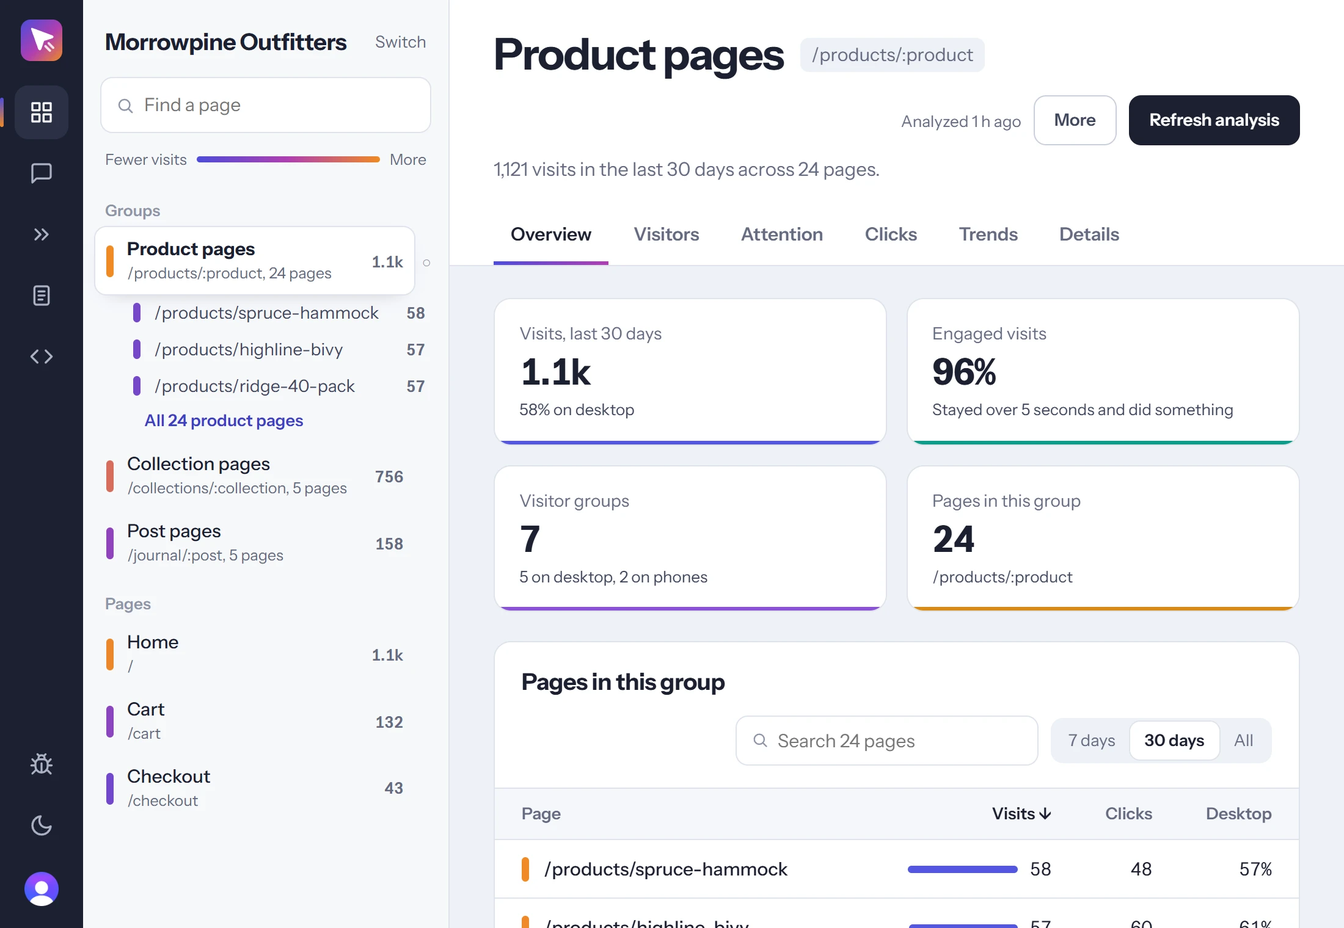
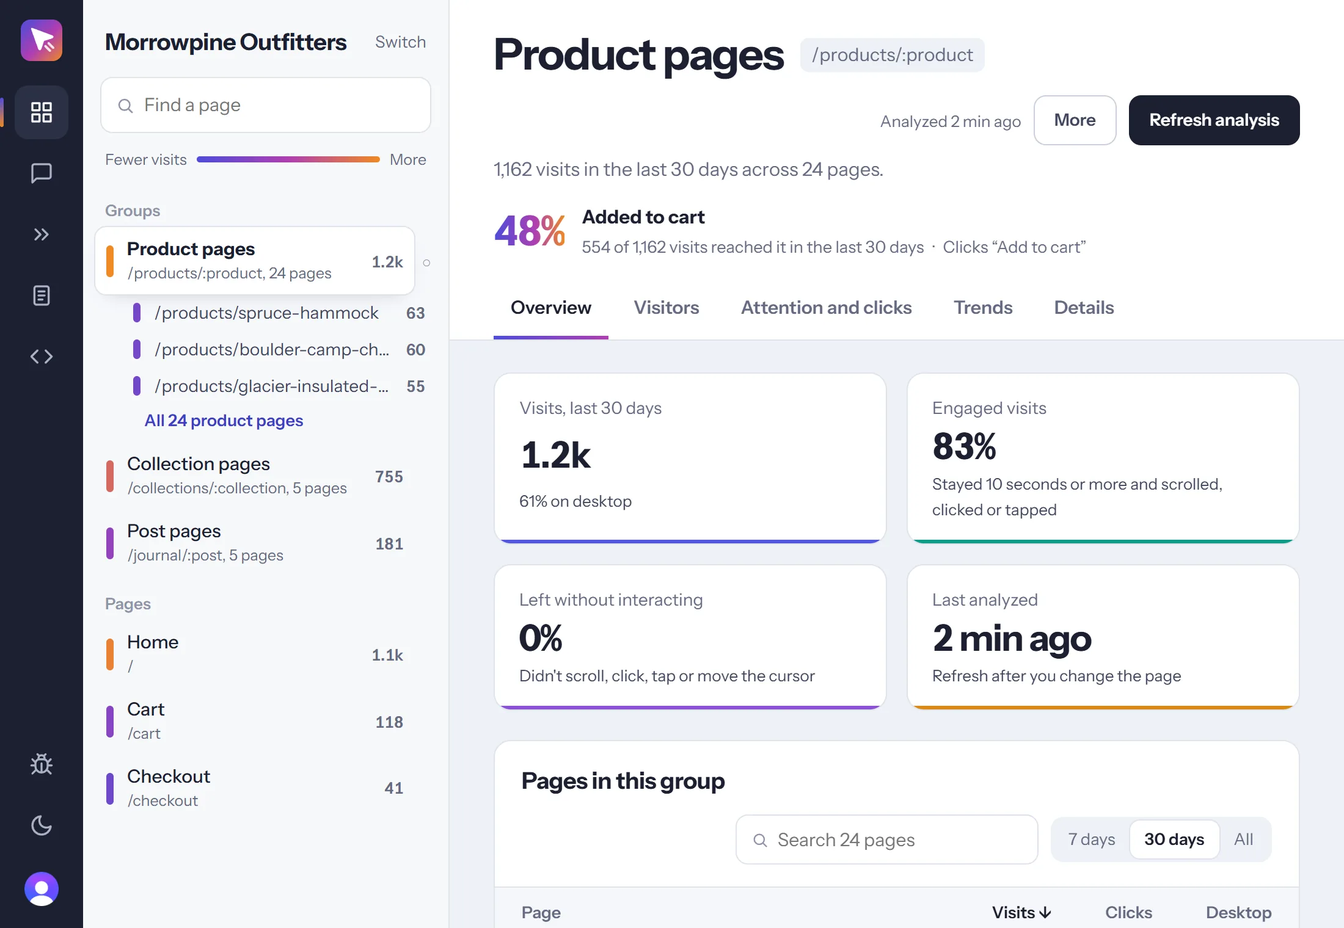
Ignore bots and refresh the homepage for the new dashboard
- Automated browsers and bot user agents are no longer recorded as visits
- Homepage pictures and copy now show the new dashboard
- The collects page explains how pages are pictured
- Retaken page pictures are no longer served stale
- Close lines on page pictures no longer overlap their labels
- Demo data now matches what the tracker sends

diff --git a/server/public/tracetray.html b/server/public/tracetray.html
@@ -131,7 +131,7 @@ section { padding: 104px 0; }
 .frame { border-radius: 16px; overflow: hidden; border: 1px solid var(--line); background: var(--paper); box-shadow: 0 30px 60px -36px rgba(28, 32, 48, 0.5); }
 .pair { position: relative; padding-bottom: 90px; }
 .pair .frame:first-child { width: 72%; }
-.pair .frame:last-child { position: absolute; right: 0; bottom: 0; width: 74%; }
+.pair .frame:last-child { position: absolute; right: 0; bottom: 0; width: 34%; }
 .card-shot { max-width: 340px; justify-self: center; }
 .row.tall { grid-template-columns: minmax(0, 500px) auto; justify-content: center; gap: 96px; }
 .row.flip.tall { grid-template-columns: auto minmax(0, 500px); }
@@ -252,7 +252,7 @@ footer span { margin-left: auto; }
         </div>
         <p class="setup-note">Two lines to install. No proxy or tag manager. Start collecting in minutes.</p>
       </div>
-      <div class="screen"><img src="/assets/home/dash-group.webp" width="2880" height="1800" alt="The TraceTray dashboard showing an outdoor gear shop's product pages, their visits and the visitor groups who use them"></div>
+      <div class="screen"><img src="/assets/home/dash-group.webp" width="2880" height="1800" alt="The TraceTray dashboard showing an outdoor gear shop's product pages, how many reach Added to cart, and the visitor groups who use them"></div>
     </div>
     <div class="wrap">
       <div class="hud" aria-live="off">
@@ -329,21 +329,21 @@ footer span { margin-left: auto; }
           <p class="lead-line">See the few kinds of visitor each page gets, such as people who decide fast, people who compare and people who skim, and how many of each.</p>
           <p>Every visit becomes a profile of 13 behavioural measures on desktop and 8 on phones: cursor speed, pause rate, scroll depth, hesitation before clicks, how widely attention ranges and more. Machine learning clusters similar profiles into groups.</p>
           <ul class="method">
-            <li>The number of groups is chosen by how cleanly the data separates, not fixed in advance.</li>
-            <li>Results are cross-checked against a second clustering method.</li>
-            <li>Statistical tests confirm which differences between groups are real.</li>
+            <li>The number of groups is chosen by how cleanly the data separates, up to five.</li>
+            <li>Every split is checked against data with no groups in it and on random samples. If none holds up, TraceTray says visitors behave alike.</li>
+            <li>Only differences large enough to matter are highlighted.</li>
           </ul>
         </div>
-        <div class="frame who-crop"><img src="/assets/home/who.webp" width="766" height="1396" alt="Who visits: Quick deciders 44%, Re-checkers 38% and Content skimmers 18%, each with a description"></div>
+        <div class="frame who-crop"><img src="/assets/home/who.webp" width="766" height="1036" alt="Who visits: Quick deciders 67% and Re-checkers 33%, each with how often they reach Shop hiking packs against the average"></div>
       </div>
 
       <div class="row flip tall">
         <div class="row-copy">
           <h2>What to change, and why</h2>
-          <p>Every visitor group comes with a clear next step, like &ldquo;keep the path short for people who already know what they want.&rdquo; Each one is based on how that group actually behaves and what the page is for, so you know which fix will do the most for conversions.</p>
-          <p>Every page also gets a summary of what stands out, and groups keep the same names between analyses, so changes are easy to track.</p>
+          <p>When a group falls short of the page's goal, TraceTray shows why from the numbers: what they click instead, where they leave the page, or how long they hesitate. No suggestion appears without the figures behind it.</p>
+          <p>Groups keep the same names between analyses, so changes are easy to track.</p>
         </div>
-        <div class="frame card-shot"><img src="/assets/home/type-card.webp" width="640" height="1058" alt="The Quick deciders group: 44% of visits, compared with the page average, and what to try"></div>
+        <div class="frame card-shot"><img src="/assets/home/type-card.webp" width="640" height="1212" alt="The Re-checkers group: none reach Added to cart, how they differ from the page average, and a suggestion to look at Reviews"></div>
       </div>
 
       <div class="row">
@@ -351,7 +351,7 @@ footer span { margin-left: auto; }
           <h2>Detailed visitor journeys</h2>
           <p>Follow visitors across your whole site: where they arrive, the paths they take, and where they leave. Spot the step where a checkout or sign-up loses people.</p>
         </div>
-        <div class="frame"><img src="/assets/home/journeys.webp" width="1750" height="1705" alt="Journeys: where visitors arrive and leave, and the most common moves between pages"></div>
+        <div class="frame"><img src="/assets/home/journeys.webp" width="2000" height="2200" alt="Journeys: where visitors arrive and leave, and the most common moves between pages"></div>
       </div>
 
       <div class="row flip">
@@ -370,11 +370,11 @@ footer span { margin-left: auto; }
       <div class="row">
         <div class="row-copy">
           <h2>Where attention goes on your page</h2>
-          <p>Find out where people get hung up, on a page and across your whole site: whether they reach your pricing, sign-up form or buy button, where they hesitate, and where engagement drops off.</p>
+          <p>See it on the page itself: where cursors spend time, where the first screen ends, how far down people get, and whether they reach your pricing, sign-up form or buy button. On phones, see where people stop to read.</p>
         </div>
         <div class="pair">
-          <div class="frame"><img src="/assets/home/attention.webp" width="1186" height="886" alt="Cursor activity from the top of the page to the bottom, with the middle third busiest"></div>
-          <div class="frame"><img src="/assets/home/attention-phone.webp" width="2000" height="558" alt="On phones: visitors get 57% of the way down and tap about 4.6 times a minute"></div>
+          <div class="frame"><img src="/assets/home/attention.webp" width="2000" height="1200" alt="A picture of the shop's homepage shaded where the cursor spends time, with lines where the first screen ends and how far visitors get"></div>
+          <div class="frame"><img src="/assets/home/attention-phone.webp" width="1180" height="1100" alt="On phones: the homepage shaded where visitors stop to read, with where the first screen ends"></div>
         </div>
       </div>
 
@@ -383,7 +383,7 @@ footer span { margin-left: auto; }
           <h2>Mobile, measured on its own terms</h2>
           <p>Phones have no cursor, so TraceTray reads taps, scrolling and reading pauses, and analyzes mobile visits separately.</p>
         </div>
-        <div class="frame"><img src="/assets/home/devices.webp" width="2000" height="582" alt="Desktop and phones: 61% desktop, 39% phones, with the phone visitor groups listed"></div>
+        <div class="frame"><img src="/assets/home/devices.webp" width="2000" height="344" alt="Desktop and phones: 61% desktop, 39% phones, and how far down each gets"></div>
       </div>
 
       <div class="row">
@@ -401,7 +401,7 @@ footer span { margin-left: auto; }
       <div class="section-head"><h2>Private by design</h2></div>
       <div class="extras-grid three">
         <div><h3>No cookies or device storage</h3><p>Visits are grouped with an ID that changes daily, and the IP address is never stored.</p></div>
-        <div><h3>Never sees what's on the page</h3><p>No screenshots, page content, keystrokes or form input.</p></div>
+        <div><h3>Never records what visitors see</h3><p>No screen recordings, page content, keystrokes or form input from visits. Pictures of your pages come from TraceTray opening the public page itself.</p></div>
         <div><h3>Your data stays yours</h3><p>Not sold, not shared and not used for ads.</p></div>
       </div>
       <p class="privacy-link"><a href="/collects">See exactly what TraceTray collects</a></p>
@@ -629,7 +629,7 @@ async function startTraceTrayTracker() {
   }
   window.TraceTray = { endpoint: `${window.location.origin}/collect`, key: siteKey };
   const script = document.createElement("script");
-  script.src = "/client/tracker.js?v=20261015-8";
+  script.src = "/client/tracker.js?v=20261016-1";
   script.async = true;
   document.head.appendChild(script);
 }

diff --git a/server/scripts/seed-demo.js b/server/scripts/seed-demo.js
@@ -50,54 +50,76 @@ function journey() {
     return path.slice(0, 1 + Math.floor(rand() * path.length));
 }
 
+const target = text => ({ tag: rand() < 0.6 ? "BUTTON" : "A", id: null, text, href: null });
+
+function scrollEvents(start, durationMs, depth, pageHeight, viewport, steps, backtrack, stepPx) {
+    const events = [{ type: "page_load", scroll_depth: viewport / pageHeight, page_height: pageHeight, viewport_height: viewport, measured: true, timestamp: start }];
+    let y = 0;
+    for (let i = 0; i < steps; i++) {
+        const goal = Math.max(0, Math.min(pageHeight - viewport, depth * ((i + 1) / steps) * pageHeight - viewport));
+        const to = backtrack && rand() < 0.3 ? Math.max(0, y - stepPx) : goal;
+        events.push({ type: "scroll", from: y, to, delta: to - y, scroll_depth: Math.min(1, (to + viewport) / pageHeight), page_height: pageHeight, viewport_height: viewport,
+            timestamp: Math.round(start + ((i + 1) / (steps + 1)) * durationMs) });
+        y = to;
+    }
+    return events;
+}
+
+const scrollAt = (scrolls, t) => scrolls.reduce((y, e) => (e.type === "scroll" && e.timestamp <= t ? e.to : y), 0);
+
 function desktopEvents(start, persona, path) {
     const p = DESKTOP[persona];
     const durationMs = between(...p.duration) * 1000;
     const pageHeight = path.startsWith("/products") ? 3600 : 2600;
+    const viewport = 820;
     const depth = between(...p.depth);
-    const events = [{ type: "page_load", scroll_depth: 0, timestamp: start }];
+    const events = scrollEvents(start, durationMs, Math.max(depth, viewport / pageHeight), pageHeight, viewport, Math.max(1, Math.round(depth * 12)), p.backtrack, 280);
+    const scrolls = [...events];
     const moves = Math.round(durationMs / 400);
-    let x = between(300, 1100), y = 300;
+    let x = between(300, 1100);
     for (let i = 0; i < moves; i++) {
-        const t = start + (i / moves) * durationMs;
-        const reach = Math.min(1, (i / moves) * 1.4) * depth;
+        const t = Math.round(start + (i / moves) * durationMs);
+        const top = scrollAt(scrolls, t);
         x = Math.max(40, Math.min(1400, x + between(-220, 220) * p.speed[1]));
-        y = Math.max(40, (rand() ** p.yBias) * reach * pageHeight + between(0, 700));
-        events.push({ type: "mousemove", x: Math.round(x), y: Math.round(y), delta_t: Math.round(400 / between(...p.speed)), timestamp: Math.round(t) });
+        const y = Math.round((rand() ** p.yBias) * (viewport - 40) + 20);
+        events.push({ type: "mousemove", x: Math.round(x), y, py: top + y, delta_t: Math.round(400 / between(...p.speed)), timestamp: t });
     }
     const pauseCount = Math.round(between(...p.pauses));
     for (let i = 0; i < pauseCount; i++) events.push({ type: "cursor_pause", duration: Math.round(between(600, 3000)), timestamp: Math.round(start + rand() * durationMs) });
-    const scrolls = Math.max(1, Math.round(depth * 12));
-    for (let i = 0; i < scrolls; i++) {
-        const back = p.backtrack && rand() < 0.3;
-        events.push({ type: "scroll", delta: back ? -280 : 320, scroll_depth: Math.min(1, depth * ((i + 1) / scrolls)), timestamp: Math.round(start + ((i + 1) / (scrolls + 1)) * durationMs) });
-    }
     const clickTargets = path.startsWith("/products") ? p.clicks
         : path.startsWith("/collections") ? ["Ridge 40L Pack", "Summit 25 Daypack", "Filter: Waterproof"]
         : path === "/cart" ? ["Checkout", "Remove"] : path === "/checkout" ? ["Pay now"] : ["Shop hiking packs", "New arrivals"];
     const clickCount = persona === "scanner" ? (rand() < 0.2 ? 1 : 0) : 1 + Math.floor(rand() * (persona === "comparer" ? 4 : 2));
     for (let i = 0; i < clickCount && clickTargets.length; i++) {
         const t = Math.round(start + between(0.3, 0.95) * durationMs);
+        const text = i === 0 && persona === "buyer" && path.startsWith("/products") ? "Add to cart" : pick(clickTargets);
+        const y = Math.round(between(120, viewport - 120));
         events.push({ type: "cursor_pause", duration: Math.round(between(...p.dwell)), timestamp: t - Math.round(between(...p.dwell)) });
-        events.push({ type: "click", tag: rand() < 0.6 ? "button" : "a", text: i === 0 && persona === "buyer" && path.startsWith("/products") ? "Add to cart" : pick(clickTargets), timestamp: t });
+        events.push({ type: "click", tag: "BUTTON", text, target: target(text), x: Math.round(between(200, 1100)), y, py: scrollAt(scrolls, t) + y, timestamp: t });
     }
     return { events: events.sort((a, b) => a.timestamp - b.timestamp), durationMs };
 }
 
-function phoneEvents(start, persona) {
+function phoneEvents(start, persona, path) {
     const p = PHONE[persona];
     const durationMs = between(...p.duration) * 1000;
+    const pageHeight = path.startsWith("/products") ? 5600 : 4400;
+    const viewport = 760;
     const depth = between(...p.depth);
-    const events = [{ type: "page_load", scroll_depth: 0, timestamp: start }];
-    const scrolls = Math.max(1, Math.round(depth * 14));
-    for (let i = 0; i < scrolls; i++) events.push({ type: "scroll", delta: rand() < 0.1 ? -300 : 420, scroll_depth: Math.min(1, depth * ((i + 1) / scrolls)), timestamp: Math.round(start + ((i + 1) / (scrolls + 1)) * durationMs) });
+    const events = scrollEvents(start, durationMs, Math.max(depth, viewport / pageHeight), pageHeight, viewport, Math.max(1, Math.round(depth * 14)), rand() < 0.3, 300);
+    const scrolls = [...events];
     const taps = Math.round(between(...p.taps));
     const pauses = Math.round(between(...p.pauses));
     for (let i = 0; i < pauses; i++) {
         const t = Math.round(start + rand() * durationMs);
-        events.push({ type: "attention_pause", duration: Math.round(between(...p.pauseMs)), ended_by: i < taps ? "tap" : "scroll", timestamp: t });
+        events.push({ type: "attention_pause", duration: Math.round(between(...p.pauseMs)), ended_by: i < taps ? "tap" : "scroll",
+            viewport_midpoint: scrollAt(scrolls, t) + viewport / 2, page_height: pageHeight, viewport_height: viewport, timestamp: t });
     }
-    for (let i = 0; i < taps; i++) events.push({ type: "tap", x: Math.round(between(20, 370)), y: Math.round(between(100, 800)), timestamp: Math.round(start + rand() * durationMs) });
+    const tapTargets = path.startsWith("/products") ? ["Add to cart", "Size guide", "Reviews"] : ["Shop hiking packs", "New arrivals", "Menu"];
+    for (let i = 0; i < taps; i++) {
+        const text = pick(tapTargets);
+        events.push({ type: "tap", x: Math.round(between(20, 370)), y: Math.round(between(100, 700)), text, target: target(text), timestamp: Math.round(start + rand() * durationMs) });
+    }
     return { events: events.sort((a, b) => a.timestamp - b.timestamp), durationMs };
 }
 
@@ -128,7 +150,7 @@ function isLocal(uri) {
         const source = weighted(SOURCES);
         const path = journey();
         path.forEach((page, step) => {
-            const { events, durationMs } = mobile ? phoneEvents(start, persona) : desktopEvents(start, persona, page);
+            const { events, durationMs } = mobile ? phoneEvents(start, persona, page) : desktopEvents(start, persona, page);
             const count = type => events.filter(e => e.type === type).length;
             docs.push({
                 site_key: site.key, session_id: `demo-${v}-${step}`, visitor_id: `demo-visitor-${v}`,

diff --git a/server/public/collects.html b/server/public/collects.html
@@ -66,12 +66,17 @@
       <h2>What it never collects</h2>
       <ul>
         <li>Anything typed: no keystrokes, and nothing entered into forms.</li>
-        <li>What's on the page: no screenshots, video, recordings or copies of page content.</li>
+        <li>What's on the visitor's screen: no screenshots, video, recordings or copies of page content.</li>
         <li>Query strings, so search terms, email addresses or tokens in a page's address aren't sent.</li>
         <li>IP addresses: the server uses one only for a moment (see below) and never writes it down, including in its access logs.</li>
         <li>Cookies, or anything else stored on the visitor's device.</li>
         <li>Names, email addresses, account details or anything that identifies a visitor from one day to the next.</li>
       </ul>
+    </section>
+
+    <section class="legal-section">
+      <h2>Pictures of your pages</h2>
+      <p>To show attention on the page itself, TraceTray's server opens your public pages, the way a search engine would: signed out, with no cookies and without the tracker, at desktop and phone width. It never pictures what a visitor sees. Pages behind a login, or on addresses that aren't public, aren't pictured.</p>
     </section>
 
     <section class="legal-section">
@@ -87,6 +92,7 @@
         <li>On busy pages, full movement data is kept for a random sample of visits. Every visit still keeps its summary, how far down the page it got, and its clicks and taps.</li>
         <li>Each visit's summary (page, duration, device and counts) is kept for 13 months.</li>
         <li>Daily page totals and your analysis results are kept for as long as your account exists. How much history the dashboard shows depends on your plan.</li>
+        <li>Pictures of your pages are replaced at most weekly, and deleted after 60 days if nobody opens them.</li>
         <li>After a subscription ends, your website data is kept for 30 days, with a notice 7 days before it's deleted.</li>
         <li>Encrypted database backups are kept for 30 days.</li>
         <li>Data is processed in the United States, on TraceTray's server and with the providers listed in the <a href="/privacy">privacy policy</a>. It isn't sold, shared or used for ads.</li>

diff --git a/server/tests/tracking.test.js b/server/tests/tracking.test.js
@@ -1,6 +1,6 @@
 const assert = require("node:assert/strict");
 const { test } = require("node:test");
-const { visitTime, cleanSummary, cleanReferrer } = require("../src/lib/tracking");
+const { visitTime, cleanSummary, cleanReferrer, isBot } = require("../src/lib/tracking");
 const { groupPage } = require("../src/lib/pageGroups");
 
 test("what a browser sends is checked before it's stored", () => {
@@ -33,4 +33,17 @@ test("page pictures only go to public addresses", async () => {
     for (const ip of ["8.8.8.8", "172.32.0.1", "2606:4700::1111"]) assert.equal(privateAddress(ip), false, ip);
     assert.equal(await publicUrl("file:///etc/passwd"), false);
     assert.equal(await publicUrl("http://localhost:5000/"), false);
+});
+
+test("bots and headless browsers are told apart from real visitors", () => {
+    for (const agent of [
+        "Mozilla/5.0 (compatible; Googlebot/2.1; +http://www.google.com/bot.html)",
+        "Mozilla/5.0 AppleWebKit/537.36 (KHTML, like Gecko; compatible; bingbot/2.0)",
+        "Mozilla/5.0 (X11; Linux x86_64) AppleWebKit/537.36 (KHTML, like Gecko) HeadlessChrome/131.0.0.0 Safari/537.36",
+        "facebookexternalhit/1.1", "curl/8.4.0", ""
+    ]) assert.equal(isBot(agent), true, agent);
+    for (const agent of [
+        "Mozilla/5.0 (Linux; Android 13; CUBOT X30) AppleWebKit/537.36 (KHTML, like Gecko) Chrome/131.0.0.0 Mobile Safari/537.36",
+        "Mozilla/5.0 (Windows NT 10.0; Win64; x64) AppleWebKit/537.36 (KHTML, like Gecko) Chrome/131.0.0.0 Safari/537.36"
+    ]) assert.equal(isBot(agent), false, agent);
 });

diff --git a/web/src/components/PagePicture.tsx b/web/src/components/PagePicture.tsx
@@ -10,7 +10,7 @@ export function usePageShot(page: string, device: "desktop" | "mobile", info: Pa
   useEffect(() => {
     if (!info) { setUrl(null); return; }
     let objectUrl: string | null = null, cancelled = false;
-    api.pageShot(siteKey, page, device).then(({ blob }) => {
+    api.pageShot(siteKey, page, device, String(info.taken_at)).then(({ blob }) => {
       if (cancelled) return;
       objectUrl = URL.createObjectURL(blob);
       setUrl(objectUrl);
@@ -48,9 +48,10 @@ export default function PagePicture({ src, info, bands, color, reach, goal, labe
         <div className="page-picture-heat" style={{ height: percent(scale, 2) }}>
           {bands.map((weight, i) => <i key={i} style={{ opacity: (weight * 0.55).toFixed(3), background: color }} />)}
         </div>
-        {lines.map(line => {
+        {lines.map((line, i) => {
           const pos = at(line.depth);
-          return pos && <div key={line.key} className={`page-line ${line.kind}`} style={pos}><span>{line.text}</span></div>;
+          const crowded = lines.some((other, j) => j < i && Math.abs(other.depth - line.depth) * scale < 0.05);
+          return pos && <div key={line.key} className={`page-line ${line.kind}${crowded ? " left" : ""}`} style={pos}><span>{line.text}</span></div>;
         })}
         {goal && at(goal.depth) && <div className="page-line goal" style={at(goal.depth)!}><span>{goal.name}</span></div>}
       </div>

diff --git a/packages/shared/src/client.ts b/packages/shared/src/client.ts
@@ -86,7 +86,7 @@ export function createApi({ baseUrl = "", getToken }: ApiOptions) {
     recentSessions: (siteKey: string, limit = 50) => request<RecentSession[]>("GET", "/api/sessions/recent", { siteKey, query: { limit } }),
     journey: (siteKey: string) => request<Journey>("GET", "/api/journey", { siteKey }),
     attention: (siteKey: string, page?: string | null) => request<AttentionProfile>("GET", "/api/attention-profile", { siteKey, query: { page } }),
-    pageShot: (siteKey: string, page: string, device: "desktop" | "mobile") => request<{ blob: Blob }>("GET", "/api/page-shot", { siteKey, query: { page, device }, raw: true }),
+    pageShot: (siteKey: string, page: string, device: "desktop" | "mobile", takenAt: string) => request<{ blob: Blob }>("GET", "/api/page-shot", { siteKey, query: { page, device, v: takenAt }, raw: true }),
 
     pageGroups: (siteKey: string) => request<PageGroups>("GET", "/api/page-groups", { siteKey }),
     savePageGroups: (siteKey: string, rules: string[]) => request<{ rules: string[]; regrouping: boolean }>("PUT", "/api/page-groups", { siteKey, body: { rules } }),

diff --git a/server/src/routes/collect.js b/server/src/routes/collect.js
@@ -2,7 +2,7 @@ const express = require("express");
 const router = express.Router();
 const { Account, Session } = require("../db/models");
 const { ensureAccountSites } = require("../lib/siteAccount");
-const { normalizeTrackingDomain, visitTime, cleanSummary, cleanReferrer } = require("../lib/tracking");
+const { normalizeTrackingDomain, visitTime, cleanSummary, cleanReferrer, isBot } = require("../lib/tracking");
 const logger = require("../lib/logger");
 const { groupPage } = require("../lib/pageGroups");
 const { countSession } = require("../lib/pageDays");
@@ -54,6 +54,7 @@ async function accountFor(siteKey) {
 router.post("/collect", async (req, res) => {
     try {
         if (overRateLimit(req.ip)) return res.sendStatus(429);
+        if (isBot(req.get("user-agent"))) return res.sendStatus(204);
 
         const data = req.body || {};
         const siteKey = String(data.key || "").trim().slice(0, 64);

diff --git a/web/src/styles.css b/web/src/styles.css
@@ -288,6 +288,7 @@ p.tab-intro { max-width: 80ch; }
 .page-picture-heat i { flex: 1; }
 .page-line { position: absolute; left: 0; right: 0; height: 0; border-top: 2px dashed color-mix(in srgb, var(--ink) 55%, transparent); }
 .page-line span { position: absolute; right: 6px; top: 3px; font-size: 11.5px; font-weight: 600; line-height: 1.4; padding: 1px 7px; border-radius: 999px; background: var(--panel); color: var(--ink); box-shadow: 0 0 0 1px var(--line); white-space: nowrap; }
+.page-line.left span { right: auto; left: 6px; }
 .page-line.fold { border-top-color: var(--d3); }
 .page-line.fold span { color: var(--d3); }
 .page-line.goal { border-top: 2px solid var(--good); }

diff --git a/server/src/lib/tracking.js b/server/src/lib/tracking.js
@@ -81,4 +81,7 @@ const ENGAGED = { $and: [
     { $gt: [{ $add: [summaryField("scrolls"), summaryField("clicks"), summaryField("taps")] }, 0] }
 ] };
 
-module.exports = { getRegistrableDomain, normalizeTrackingDomain, visitTime, cleanSummary, cleanReferrer, ENGAGED };
+const BOT_AGENT = /bot[\/;-]|crawl|spider|slurp|headless|lighthouse|pagespeed|prerender|phantomjs|facebookexternalhit|python-requests|curl\/|wget/i;
+const isBot = userAgent => !userAgent || BOT_AGENT.test(userAgent);
+
+module.exports = { getRegistrableDomain, normalizeTrackingDomain, visitTime, cleanSummary, cleanReferrer, ENGAGED, isBot };

diff --git a/server/public/assets/site.js b/server/public/assets/site.js
@@ -21,7 +21,7 @@ const trackPage = document.currentScript?.hasAttribute("data-track");
     if (!config.site_key) return;
     window.TraceTray = { endpoint: `${window.location.origin}/collect`, key: config.site_key };
     const script = document.createElement("script");
-    script.src = "/client/tracker.js?v=20261015-8";
+    script.src = "/client/tracker.js?v=20261016-1";
     script.async = true;
     document.head.appendChild(script);
   } catch (e) {

diff --git a/client/tracker.js b/client/tracker.js
@@ -5,6 +5,8 @@
 // A second copy of the script on the same page would record every event twice.
 if (window.__traceTrayLoaded) return;
 window.__traceTrayLoaded = true;
+// Browsers driven by automation (test scripts, scrapers, headless tools) aren't visitors.
+if (navigator.webdriver) return;
 
 function generateId() {
     if (crypto && crypto.randomUUID) {
